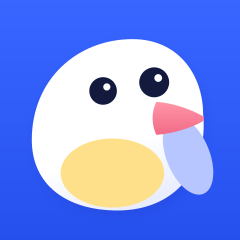
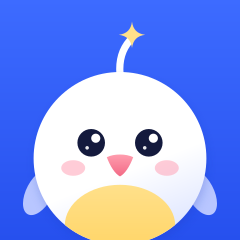
The day's end goes straight to its page, Settings' First Class card leaves once tapped, Wren faces you
- Today: while the after-fifteen page will take the day's end, the Swift desk plays none of its
  own evening (KTodayContent.pageAfter): the last card leaves, Next and Reply fade, and the page
  comes. Wren's flight into the window and her letter rising used to start under the 320 ms swap.
  False on an empty day and once the record hasn't answered (the old end, at rest). An older
  binary ignores the prop.
- Settings: the First Class card hides for good once tapped (flag settings_fc_tapped; members
  never saw it).
- Kindreds: Wren's avatar is a front-on round Wren with a feather ending in a star
  (design/app-icon-wren/blue/make-avatar-front.mjs), 240 px as before.

diff --git a/src/screens/settings/useSettingsModel.ts b/src/screens/settings/useSettingsModel.ts
@@ -1,4 +1,5 @@
-import { useCallback, useMemo, useRef, useState } from "react";
+import { useCallback, useEffect, useMemo, useRef, useState } from "react";
+import { getFlags, setFlag } from "../../lib/flags";
 import { Alert, Linking } from "react-native";
 import * as Haptics from "expo-haptics";
 import { useFocusEffect, useRouter } from "expo-router";
@@ -119,6 +120,8 @@ export type SettingsActions = {
 
 export type SettingsModel = {
   view: SettingsView;
+  /** the First Class card is put away: this reader isn't a member and has tapped it once */
+  bannerHidden: boolean;
   /** the exits' red for the React Native page (settings-model dangerInk; Swift mixes its own) */
   danger: string;
   /** the language sheet is up, and what it lists */
@@ -132,6 +135,9 @@ export type SettingsModel = {
   deleting: boolean;
   act: SettingsActions;
 };
+
+/** the First Class card at the top of Settings was tapped by a reader who isn't a member */
+const FC_BANNER_TAPPED = "settings_fc_tapped";
 
 export function useSettingsModel(): SettingsModel {
   const router = useRouter();
@@ -149,6 +155,15 @@ export function useSettingsModel(): SettingsModel {
   /* Notifications, one switch for this phone (owner, 2026-10-13) — null until read */
   const [notifyOn, setNotifyOnState] = useState<boolean | null>(null);
   const [restoring, setRestoring] = useState(false);
+  /* the First Class card at the top was tapped once (lib/flags, per account on this phone) */
+  const [fcTapped, setFcTapped] = useState(false);
+  useEffect(() => {
+    let alive = true;
+    getFlags().then((f) => alive && setFcTapped(!!f[FC_BANNER_TAPPED]));
+    return () => {
+      alive = false;
+    };
+  }, []);
   const [picking, setPicking] = useState(false);
   const [askDelete, setAskDelete] = useState(false);
   const [deleting, setDeleting] = useState(false);
@@ -434,7 +449,17 @@ export function useSettingsModel(): SettingsModel {
   const act = useMemo<SettingsActions>(
     () => ({
       back: () => (router.canGoBack() ? router.back() : router.replace(SETTINGS_ROUTES.me as never)),
-      banner: () => router.push(SETTINGS_ROUTES.banner as never),
+      banner: () => {
+        /* ONE TAP AND IT STEPS ASIDE (owner, 2026-11-13: "first class 做个策略 如果用户点了 就消
+           失"): a reader who isn't a member has seen the offer by opening it, so the card at the
+           top of Settings goes for good (on this phone, for this account); First Class stays in
+           its own group below. A member's card is their membership, not an offer: it stays. */
+        if (!premium) {
+          void setFlag(FC_BANNER_TAPPED);
+          setFcTapped(true);
+        }
+        router.push(SETTINGS_ROUTES.banner as never);
+      },
       theme: (key) => {
         if (isAppearance(key)) setAppearance(key);
       },
@@ -461,11 +486,12 @@ export function useSettingsModel(): SettingsModel {
         if (!deletingRef.current) setAskDelete(false);
       },
     }),
-    [router, setAppearance, setLetterFont, row, onToggleKnock, onToggleNotify, onToggleEvening, turnOn, perm, confirmDelete],
+    [router, setAppearance, setLetterFont, row, onToggleKnock, onToggleNotify, onToggleEvening, turnOn, perm, confirmDelete, premium],
   );
 
   return {
     view,
+    bannerHidden: !premium && fcTapped,
     danger: dangerInk(tk.ink, P.post),
     picking,
     lang,

diff --git a/modules/kindredly-ui/ios/Portable/Today/KTodayDesk.swift b/modules/kindredly-ui/ios/Portable/Today/KTodayDesk.swift
@@ -423,6 +423,12 @@ public struct KTodayDesk: View {
     }
     .onAppear { appear() }
     .onChange(of: content.phase) { old, now in phaseChanged(from: old, to: now) }
+    // the page's record never answered: the old end after all, at rest (no replay)
+    .onChange(of: content.pageAfter) { _, page in
+      if !page, content.phase == .done, flow.isReading {
+        flow.rest(canPlay: content.window.canPlay, reduceMotion: reduceMotion)
+      }
+    }
     .onChange(of: deck.beat) { _, beat in beatChanged(beat) }
     .onChange(of: content.window.canPlay) { _, can in
       flow.refresh(canPlay: can, reduceMotion: reduceMotion)
@@ -566,7 +572,8 @@ public struct KTodayDesk: View {
         deskAt: content.deskAt,
         enabled: content.phase == .reading || content.phase == .done,
         // (THE UNFOLD: the three come in once the sheet has landed under them)
-        hidden: content.hideBand || plus != .closed || unfolding,
+        // (THE DAY'S END IS A PAGE: they fade with the last card, and the page comes)
+        hidden: content.hideBand || plus != .closed || unfolding || (content.pageAfter && content.phase == .done),
         deck: deck,
         flow: flow,
         onNext: { [deck] in deck.requestNext() },
@@ -650,13 +657,17 @@ public struct KTodayDesk: View {
   private func appear() {
     box.confirmSerial &+= 1
     if content.phase == .done {
-      flow.rest(canPlay: content.window.canPlay, reduceMotion: reduceMotion)
+      // (the page's, when it takes the day's end: nothing of the old one is drawn)
+      if !content.pageAfter { flow.rest(canPlay: content.window.canPlay, reduceMotion: reduceMotion) }
     } else {
       flow.reset()
     }
   }
 
+  /// Her evening, unless the after-fifteen page takes the day's end (content.pageAfter): then the
+  /// desk only lets the last card go.
   private func play() {
+    guard !content.pageAfter else { return }
     flow.play(night: content.night, canPlay: content.window.canPlay, reduceMotion: reduceMotion)
   }
 
@@ -667,7 +678,7 @@ public struct KTodayDesk: View {
       // a desk that comes up done (a relaunch reading the kept day, a quiet day's first load)
       // is drawn at rest, never replayed
       box.confirmSerial &+= 1
-      guard flow.isReading else { return }
+      guard flow.isReading, !content.pageAfter else { return }
       if old == .reading {
         play()
       } else {

diff --git a/src/screens/today/useAfterFifteen.ts b/src/screens/today/useAfterFifteen.ts
@@ -72,6 +72,11 @@ export type AfterFifteen = {
       read): draw the page's colour and nothing else, so the old end of the day never flashes by.
       Gives way to the desk if the record doesn't answer */
   pending: boolean;
+  /** the page will take the day's end (owner, 2026-11-13, reading to the end: "怎么老的那个闪了一下 ？ 老的那个
+      就不要了"): the Swift desk plays none of its own evening (Wren's flight into the window, her letter
+      rising), so the last card leaves and the page comes with nothing of the old end between. False on a
+      day with nothing read (no page comes) and once the record hasn't answered (the desk's old end, at rest) */
+  handsOff: boolean;
   vm: AfterVM | null;
   look: KWrenLookData;
   act: {
@@ -388,7 +393,15 @@ export function useAfterFifteen(model: TodayModel): AfterFifteen {
   );
 
   const shown = show && wants && vm != null;
-  return { show: shown, pending: doneNow && !shown && !fromPass && !sawReading.current && !gaveUp, vm, look, act };
+  const emptyDay = view.phase === "done" && day.done && day.read === 0;
+  return {
+    show: shown,
+    pending: doneNow && !shown && !fromPass && !sawReading.current && !gaveUp,
+    handsOff: live && !gaveUp && !emptyDay,
+    vm,
+    look,
+    act,
+  };
 }
 
 /** the callbacks' names, for a host that only draws (the dev page) */

diff --git a/modules/kindredly-ui/ios/Portable/Settings/KSettingsScreen.swift b/modules/kindredly-ui/ios/Portable/Settings/KSettingsScreen.swift
@@ -127,6 +127,9 @@ public struct KSettingsContent: Equatable, Sendable {
   public var backLabel = ""
   /// the First Class card at the top: Me's 4a card, the member state for members
   public var banner = KMeFirstClass()
+  /// the First Class card is put away: a reader who isn't a member has tapped it once (TS decides;
+  /// owner, 2026-11-13: "first class 做个策略 如果用户点了 就消失")
+  public var bannerHidden = false
   public var appearance = KSettingsAppearance()
   public var groups: [KSettingsGroupItem] = []
   /// KINDREDLY 1.0.5 · 1.3.0 (29) · MADE SLOWLY
@@ -191,8 +194,10 @@ public struct KSettingsScreen: View {
             onBack: { actions.onBack() }
           )
           .padding(.horizontal, -Self.gutter)
-          KMeFirstClassCard(card: content.banner) {
-            actions.onBanner()
+          if !content.bannerHidden {
+            KMeFirstClassCard(card: content.banner) {
+              actions.onBanner()
+            }
           }
           KSettingsAppearanceGroup(theme: theme, appearance: content.appearance, actions: actions)
           ForEach(content.groups) { group in

diff --git a/src/app/(tabs)/letters.tsx b/src/app/(tabs)/letters.tsx
@@ -42,7 +42,9 @@ import "../../data/strings-step5-today";
    SwiftUI only). They stand where the desk stood, behind the same switch
    machinery (NativeSurface: the table, the binary having the view, the crash
    strikes), with the desk itself as the fallback; off, or before the day is
-   done, this route is exactly what it was. */
+   done, this route is exactly what it was. While the page will come, the
+   Swift desk plays none of its own evening (pageAfter): the last card goes
+   and the page takes its place, with nothing of the old end between. */
 export default function LettersTab() {
   const { t: tk } = useTheme();
   const model = useTodayDesk();
@@ -52,7 +54,7 @@ export default function LettersTab() {
       surface="today"
       view="KTodayView"
       mode="mount"
-      native={() => <TodayNative model={model} />}
+      native={() => <TodayNative model={model} pageAfter={after.handsOff} />}
       fallback={() => <TodayRN model={model} />}
     />
   );

diff --git a/modules/kindredly-ui/ios/Portable/Today/KTodayModels.swift b/modules/kindredly-ui/ios/Portable/Today/KTodayModels.swift
@@ -347,6 +347,13 @@ public struct KTodayContent: Equatable, Sendable {
   /// back (five seconds, and every reason it goes early, are TS's: today-cards undoOpen); "" for no
   /// offer. The desk stands the Undo capsule over the band while it is set (KUndoCapsule)
   public var undoId = ""
+  /// THE DAY'S END IS A PAGE (owner, 2026-11-13, after reading to the end: "怎么老的那个闪了一下 ？
+  /// 老的那个就不要了"). TS sets it while the after-fifteen page will take the desk's place once the
+  /// day is done: the desk then plays none of its own evening (no flight into the window, no letter
+  /// rising, no window); the last card leaves, NEXT and REPLY fade, and the page comes. Set back to
+  /// false (the page's record never answered), a done desk draws its old end at rest. A binary
+  /// without it plays the old evening under the page's arrival, as before.
+  public var pageAfter = false
   public var labels = KTodayLabels()
 
   public init() {}

diff --git a/src/screens/today/TodayNative.tsx b/src/screens/today/TodayNative.tsx
@@ -139,7 +139,8 @@ type Nav = { addListener?: (type: string, cb: () => void) => () => void; isFocus
 /** how long a letter asked for from the Kindreds tab may still open its reply (see the effect below) */
 const ASK_FRESH_MS = 8000;
 
-export function TodayNative({ model }: { model: TodayModel }) {
+/** pageAfter: the after-fifteen page takes the day's end (useAfterFifteen handsOff) */
+export function TodayNative({ model, pageAfter = false }: { model: TodayModel; pageAfter?: boolean }) {
   const { key: theme } = useTheme();
   const letterFont = useLetterFont();
   const insets = useScreenInsets();
@@ -341,6 +342,7 @@ export function TodayNative({ model }: { model: TodayModel }) {
           night={view.night}
           plus={view.plus}
           hideBand={view.hideBand}
+          pageAfter={pageAfter}
           wren={wren}
           undoId={view.undo}
           wrenCard={wrenCard}

diff --git a/modules/kindredly-ui/ios/Adapters/KSettingsView.swift b/modules/kindredly-ui/ios/Adapters/KSettingsView.swift
@@ -137,6 +137,8 @@ struct KSettingsGroupRecord: Record {
 final class KSettingsViewProps: KScreenProps {
   @Field var strings: KSettingsStringsRecord = KSettingsStringsRecord()
   @Field var banner: KSettingsBannerRecord = KSettingsBannerRecord()
+  /// the card put away (an older bundle sends nothing: shown)
+  @Field var bannerHidden: Bool = false
   @Field var swatches: [KSettingsSwatchRecord] = []
   @Field var selectedTheme: String = ""
   @Field var fonts: [KSettingsFontRecord] = []
@@ -171,6 +173,7 @@ final class KSettingsViewProps: KScreenProps {
       c.title = strings.title
       c.backLabel = strings.backLabel
       c.banner = banner.banner
+      c.bannerHidden = bannerHidden
       var a = KSettingsAppearance()
       a.header = strings.appearanceHeader
       // keys are the grid's identity: a repeat (never sent by TS) is dropped, not drawn twice

diff --git a/modules/kindredly-ui/src/Today.tsx b/modules/kindredly-ui/src/Today.tsx
@@ -279,6 +279,10 @@ export type KTodayViewProps = CommonViewModifierProps &
     plus: KTodayPlus;
     /** NEXT and REPLY step aside: a send in flight, or the reader open */
     hideBand: boolean;
+    /** the after-fifteen page takes the day's end (owner, 2026-11-13: "老的那个就不要了"): the desk plays none
+        of its own evening, the last card leaves and NEXT and REPLY fade. Back to false, a done desk draws the
+        old end at rest. An older binary ignores it and plays the old evening under the page's arrival */
+    pageAfter?: boolean;
     wren: KTodayWren;
     /** undo after Next (owner's audit, 2026-11-10): the letter just passed while its Undo capsule is up (TS
         counts the five seconds and every reason it goes early), "" otherwise. The capsule's tap is

diff --git a/modules/kindredly-ui/ios/Adapters/KTodayView.swift b/modules/kindredly-ui/ios/Adapters/KTodayView.swift
@@ -453,6 +453,8 @@ final class KTodayViewProps: KScreenProps {
   @Field var night: Bool = false
   @Field var plus: String = "closed"
   @Field var hideBand: Bool = false
+  /// the after-fifteen page takes the day's end (KTodayContent.pageAfter)
+  @Field var pageAfter: Bool = false
   @Field var wren: KTodayWrenRecord = KTodayWrenRecord()
   /// undo after Next: the letter just passed while its Undo capsule is up, "" otherwise
   @Field var undoId: String = ""
@@ -559,6 +561,7 @@ struct KTodayView: ExpoSwiftUI.View {
     content.night = props.night
     content.plus = KTodayPlus(rawValue: props.plus) ?? .closed
     content.hideBand = props.hideBand
+    content.pageAfter = props.pageAfter
     content.wren = props.wren.wren
     content.undoId = props.undoId
     return KTodayDesk(

diff --git a/src/screens/settings/SettingsRN.tsx b/src/screens/settings/SettingsRN.tsx
@@ -35,7 +35,7 @@ export function SettingsRN({ model }: { model: SettingsModel }) {
       >
         <SecondaryHeader title={view.title} backLabel={view.backLabel} onBack={act.back} height={44} style={{ marginHorizontal: -16 }} />
 
-        <FirstClassCard card={view.banner} onPress={act.banner} />
+        {!model.bannerHidden && <FirstClassCard card={view.banner} onPress={act.banner} />}
 
         {/* APPEARANCE */}
         <SoftSection header={a.header}>

diff --git a/modules/kindredly-ui/src/Settings.tsx b/modules/kindredly-ui/src/Settings.tsx
@@ -80,6 +80,8 @@ export type KSettingsViewProps = CommonViewModifierProps &
   KScreenBaseProps & {
     strings: KSettingsStrings;
     banner: KSettingsBanner;
+    /** the First Class card put away (a binary before it ignores this and shows the card) */
+    bannerHidden?: boolean;
     swatches: KSettingsSwatch[];
     /** the reader's appearance (system / light / dark / lavender / paper), not the theme in effect */
     selectedTheme: string;
